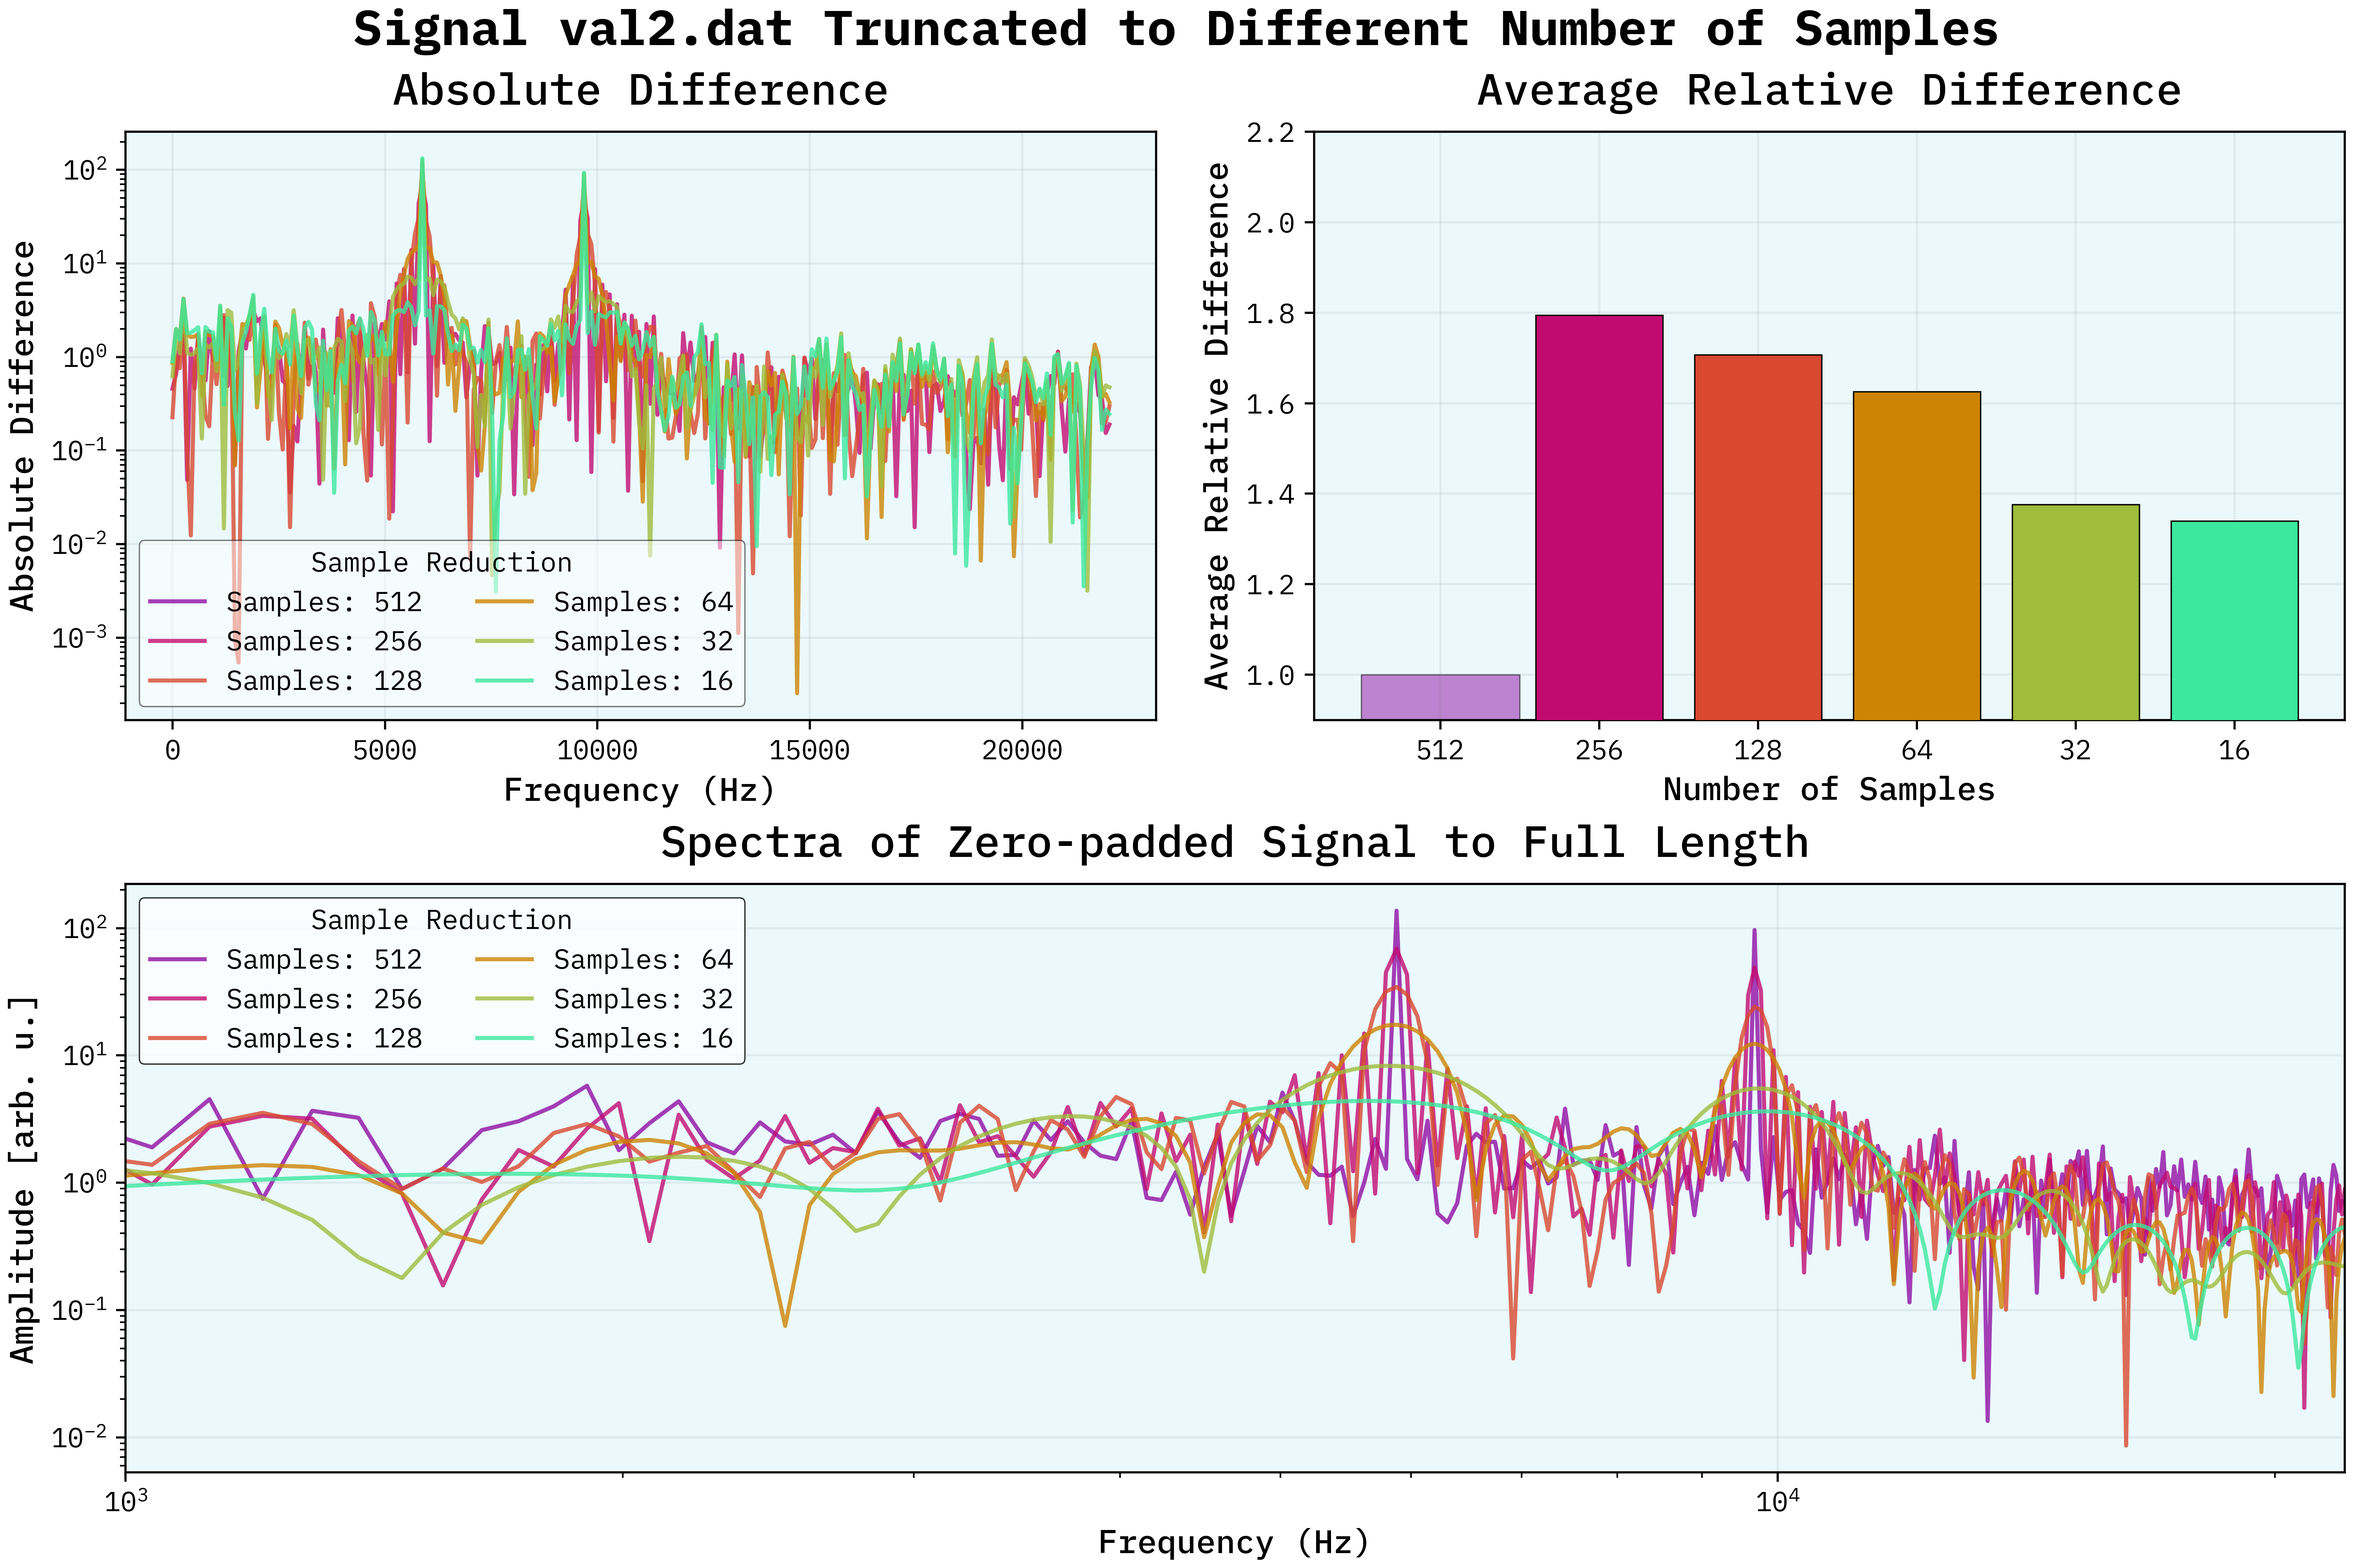
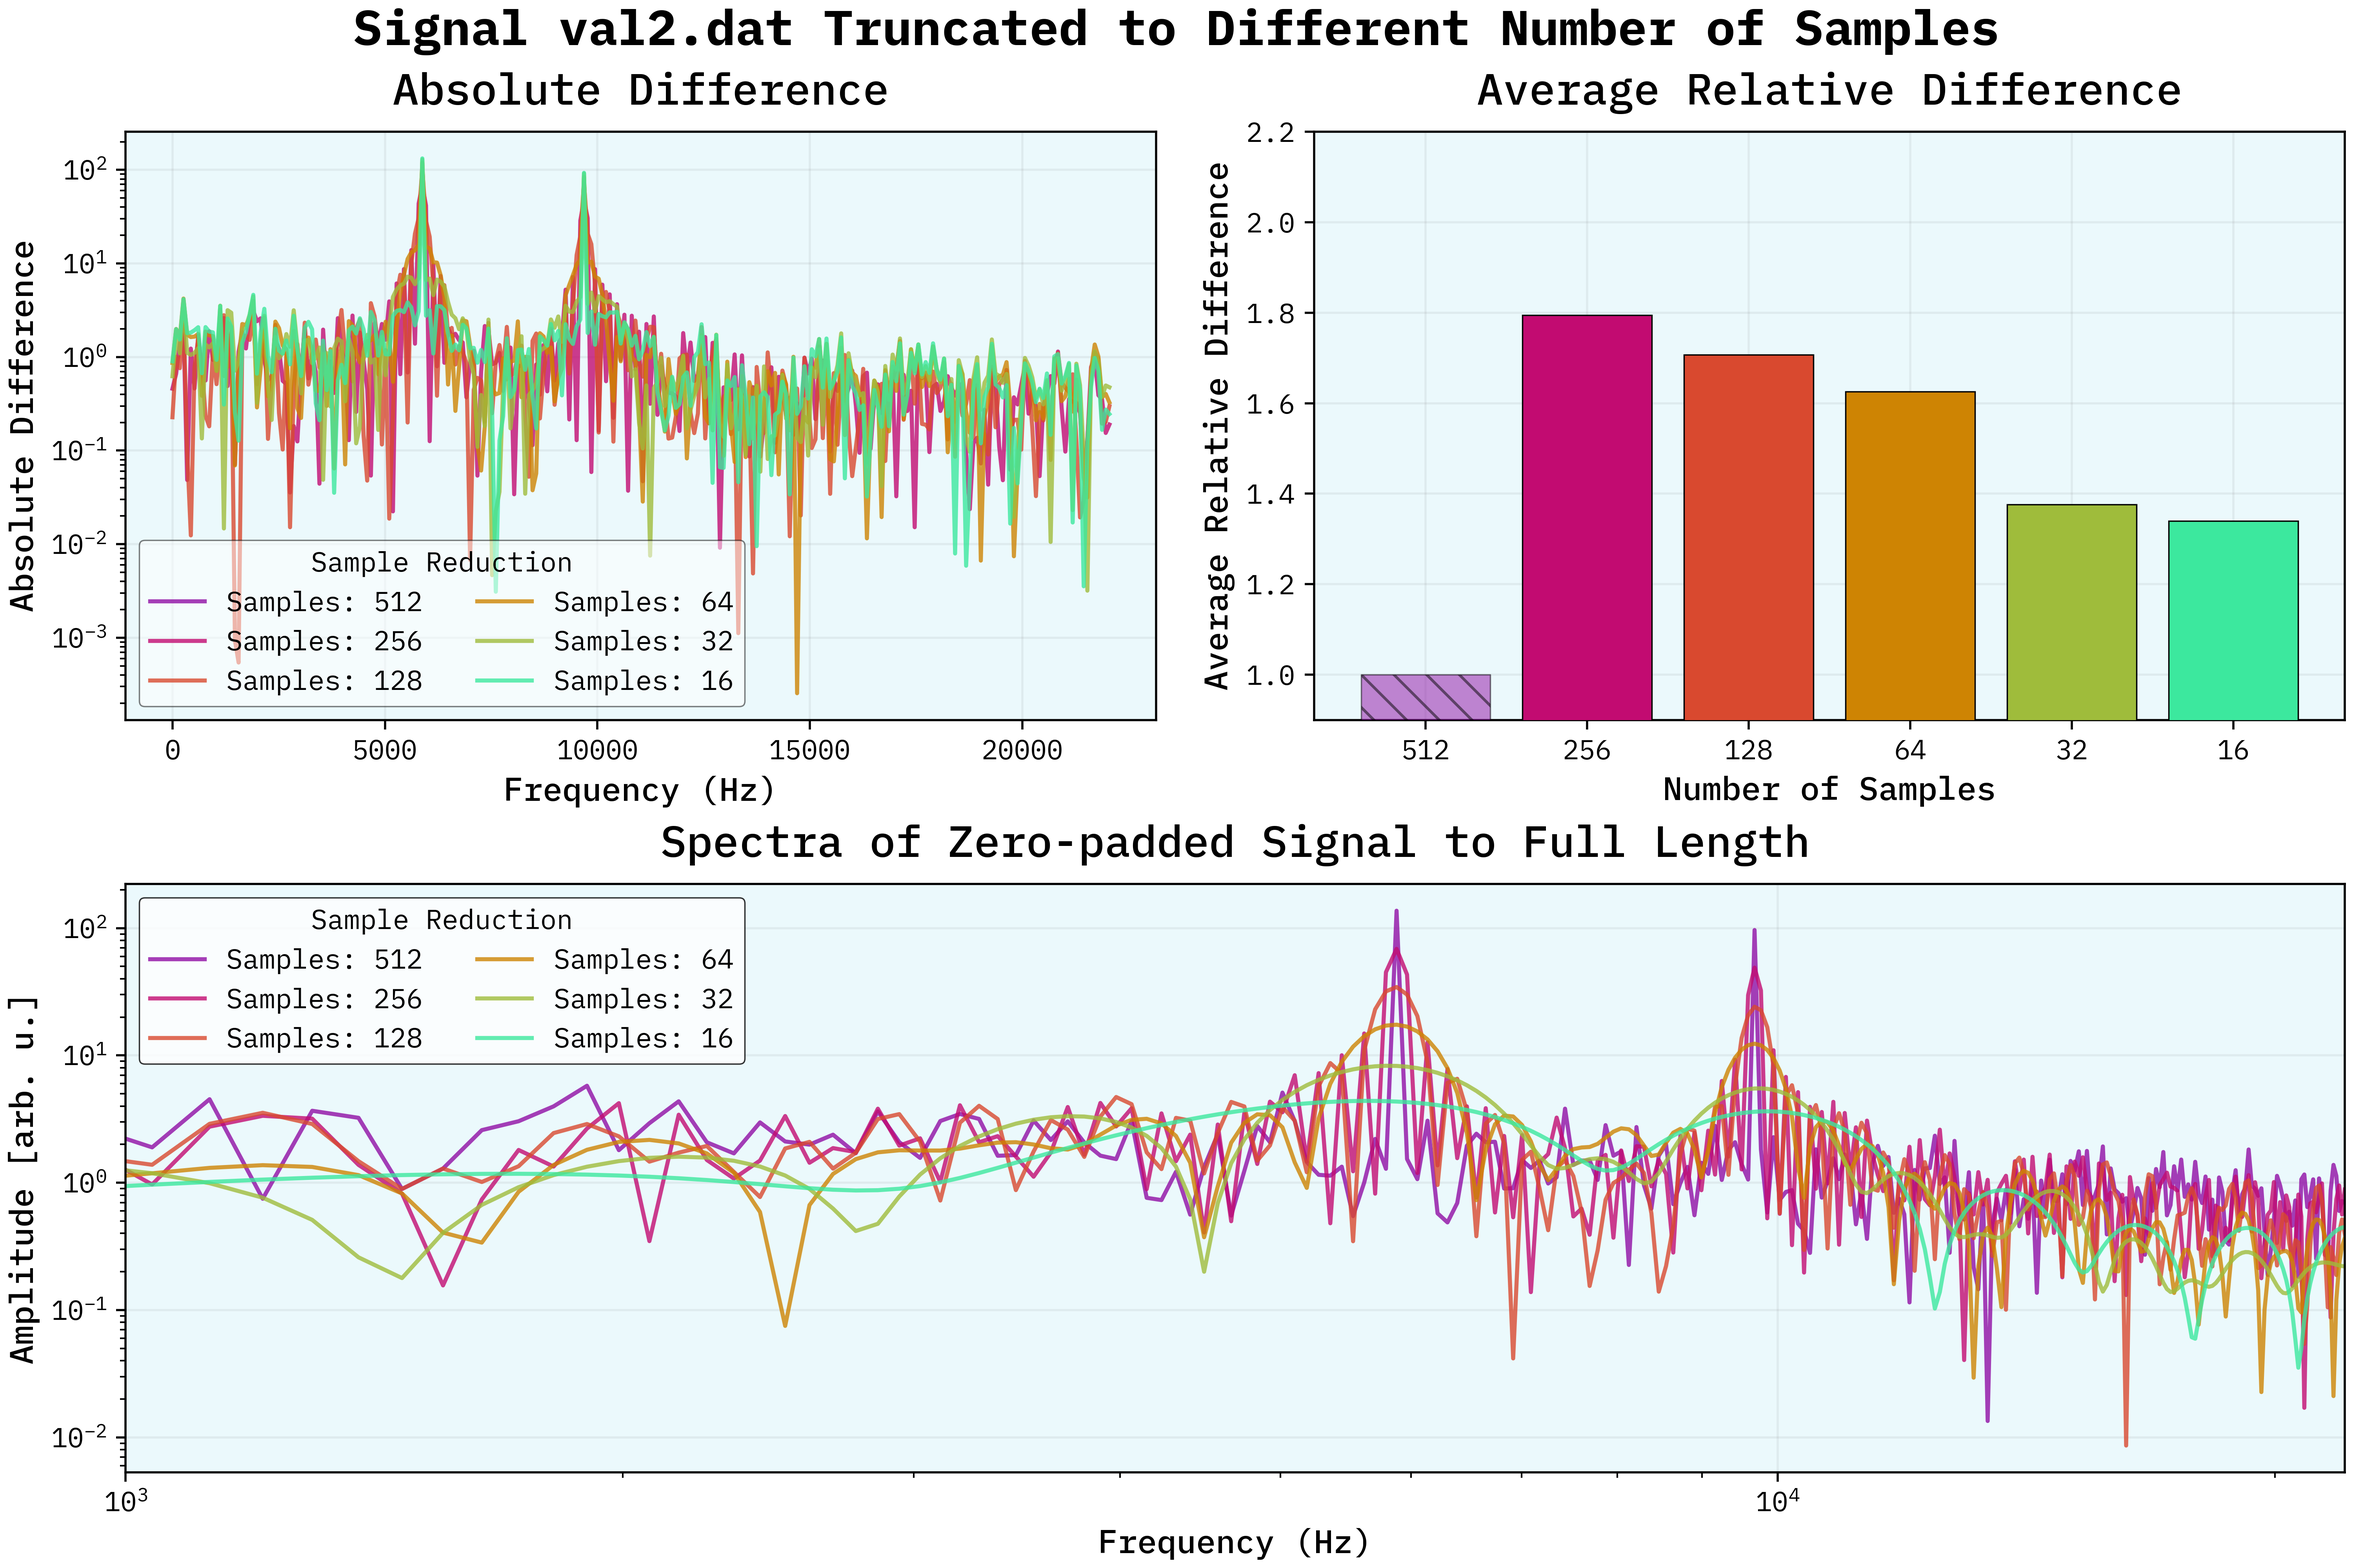
feat: :art: also add plots for val3.dat

diff --git a/SpectralAnalysis/Code/truncate-data.py b/SpectralAnalysis/Code/truncate-data.py
@@ -82,14 +82,18 @@ f1.set_alpha(0.5)
 
 
 ax[1].set_title("Average Relative Difference")
-ax[1].bar(np.arange(len(n_samples)), [np.mean(diff[sample] / np.abs(spectra['512'])) for sample in n_samples], color=cm, alpha=1,
-          zorder=10, edgecolor='black', linewidth=0.5)
+bardata = [np.mean(diff[sample] / np.abs(spectra['512'])) for sample in n_samples]
+barcontainer = ax[1].bar(np.arange(len(n_samples)), bardata, color=cm, alpha=1,
+                             zorder=10, edgecolor='black', linewidth=0.5)
+bins = [barcontainer.patches[0].get_x(), barcontainer.patches[0].get_x() + barcontainer.patches[0].get_width()]
+print(bins)
 ax[1].set_xticks(np.arange(len(n_samples)))
 ax[1].set_xticklabels([f"{sample}" for sample in n_samples], rotation=0)
 ax[1].set_xlabel('Number of Samples')
 ax[1].set_ylabel('Average Relative Difference')
 ax[1].set_ylim(0.9, 2.2)
-ax[1].fill_between([-0.5, 0.5], 0.9, 1.0, color=cm[0], alpha=0.5, linewidth=0.5, edgecolor='black')
+ax[1].fill_between([bins[0], bins[1]], 0.0, 1.0, color=cm[0], zorder=10, hatch="\\\\",
+                   alpha=0.5, linewidth=0.5, edgecolor='black')
 
 ax[2].set_title("Spectra of Zero-padded Signal to Full Length")
 for i, sample in enumerate(spectra):

diff --git a/SpectralAnalysis/Code/signal-spectrum.py b/SpectralAnalysis/Code/signal-spectrum.py
@@ -16,7 +16,7 @@ SAMPLE_RATE = 44100
 mpl.style.use('./ma-style.mplstyle')
 
 # Load the signal
-data_path = './SuppliedData/val2.dat'
+data_path = './SuppliedData/val3.dat'
 data = np.loadtxt(data_path)
 data = data / np.max(data)
 data_len = len(data)
@@ -25,11 +25,12 @@ print(f"Data length: {data_len}, Time: {data_time}")
 spectrum = fft.fft(data)
 spectrum = spectrum[:data_len//2]
 freq = np.linspace(0.0, 1.0/(2.0*(data_time/data_len)), data_len//2)
-peaks = signal.find_peaks(np.abs(spectrum), height=50)
+peaks = signal.find_peaks(np.abs(spectrum), height=30)
 print(f"Peaks: {[freq[p] for p in peaks[0]]}")
+print(f"Peak Heights: {np.array(peaks[1]['peak_heights'])/np.max(np.abs(spectrum))}")
 
 # Load .wav 
-sound_data = load_wav('./GeneratedData/sig_5880_9685.wav')
+sound_data = load_wav('./GeneratedData/sig_4323_10463_12971_18245.wav')
 print(sound_data["n"])
 sound = sound_data['signal'][:data_len] / np.max(sound_data['signal'])
 s_spectrum = fft.fft(sound)
